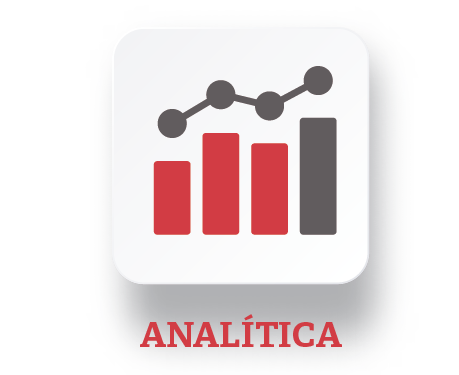
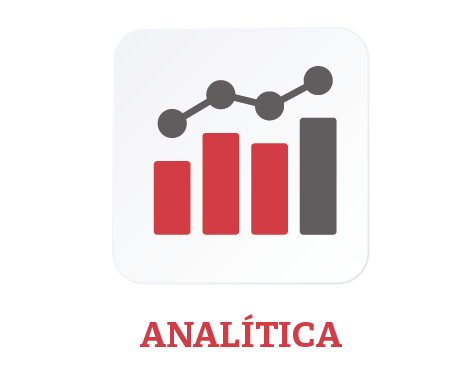
footer image

Changed region(s): [[0.244, 0.1467, 0.854, 0.9387]]

diff --git a/themes/wpak-theme-bootstrap-feature-user-login/css/common.css b/themes/wpak-theme-bootstrap-feature-user-login/css/common.css
@@ -441,9 +441,9 @@ h1 span,h2 span,h3 span,h4 span,h5 span{
     left: 0px;
     background-repeat: no-repeat;
     background-position: center;
-	background-size: 60px 60px;
-    width: 60px;
-    height: 60px;
+	background-size: 60px auto;
+    width: 65px;
+    height: 65px;
     display: block;
     margin: 0 auto;
 }
@@ -454,7 +454,6 @@ h1 span,h2 span,h3 span,h4 span,h5 span{
 
 .footer-content #home-footer-button2{
     background-image: url(../img/icon-2.png);
-	background-size: 55px auto;
 }
 
 .footer-content #home-footer-button3{
